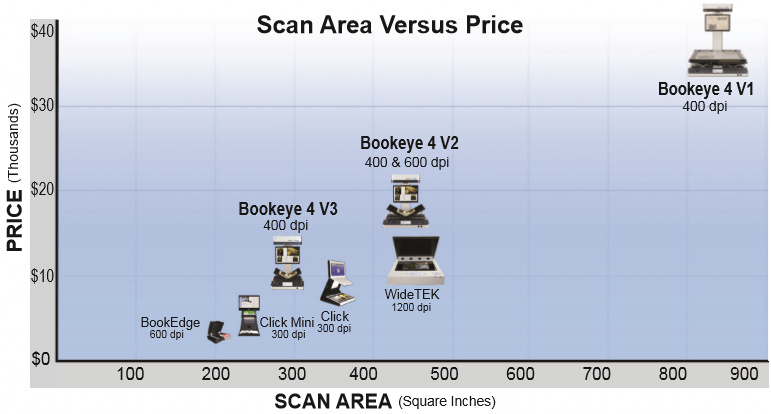
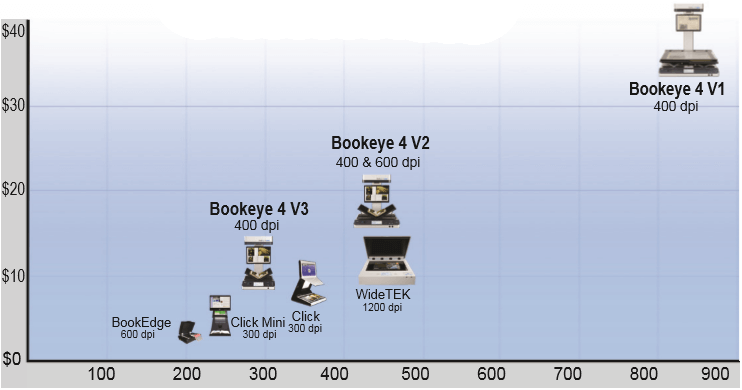
fix and media-queries

Changed region(s): [[0.0, 0.0, 1.0, 1.0], [0.31, 0.0308, 0.6819, 0.0923]]

diff --git a/Image Access Site/pages/KIC_Software.html b/Image Access Site/pages/KIC_Software.html
@@ -121,7 +121,7 @@
                 interfaces, one exclusively for scanning, one exclusively for copying and one exclusively for faxing.
                 And KIC's best-of-breed power user interface is only a touch away.
             </p>
-            <img id="copy-diagram" src="../images/brochure-pictures/TriangularCopy.png" alt="">
+            <img class="copy-diagram" src="../images/brochure-pictures/TriangularCopy.png" alt="">
             <h3 class="brochure-subtitle-left">Copier Replacement</h3>
             <p>
                 While multifunction copiers are partly digital, they are big mechanical machines with big maintenance
@@ -251,7 +251,8 @@
                              alt="Enhance Reports">
                     </div>
                     <div class="infoblock__double__content__double">
-                        <p class="paragraph-padding">Place books face-up on KIC Bookeye 4's large bed & capture two pages at a time - <i>much</i>
+                        <p class="paragraph-padding">Place books face-up on KIC Bookeye 4's large bed & capture two
+                            pages at a time - <i>much</i>
                             faster
                             than flatbed scanners and copiers.</p>
                         <p>Use whole pages or clip selected pictures, graphs, test, etc. using KIC's large touch
@@ -521,7 +522,7 @@
         <div id="KIC_Software_Self_Serve_Book_Printing" data-spy="scroll"
              class="scrollSpy brochure-overflow">
             <div class="content__pod">
-                <h2 class="brochure-title-center">Print Books on Demand</h2>
+                <h2 class="brochure-title-center">Self-Serve Book Printing</h2>
                 <div class="pbd--frame">
                     <img class="img-preview" src="../images/logo/POD-logo.png" alt="logo-pbd">
                     <p class="frame--text">Printing books has never been easier! With KIC's new Print On Demand
@@ -589,9 +590,7 @@
                         to make it easier to navigate from KIC to KIC
                         system, KIC Fleet Manager allows you to select
                         a particular KIC system via either of two
-                        methods: a map or a list. </p>
-                    <p class="kic_software__kic_textblock__fix resize-fleet-paragraph">
-                        With over ten years serving libraries, KIC is the most stable
+                        methods: a map or a list. With over ten years serving libraries, KIC is the most stable
                         product available today.
                     </p>
                     <p class="kit-fleet-paragraph resize-fleet-paragraph">However, DLSG engineers incessantly
@@ -754,7 +753,7 @@
                     <img class="dual-screen-img" src="../images/KIC Software/KIC-Software-Brochure-7-2.png" width=""
                          height=""
                          alt="">
-                    <span>Dual Screen Touch & View</span>
+                    <span class="dual-screen-text">Dual Screen Touch & View</span>
                 </div>
             </div>
             <div class="infoblock__div_arrow-devices">

diff --git a/Image Access Site/css/kic-software.css b/Image Access Site/css/kic-software.css
@@ -246,10 +246,6 @@ img {
     height: 16px;
 }
 
-.infoblock p {
-    text-align: left;
-}
-
 div.infoblock span {
     display: inline-block;
 }
@@ -579,9 +575,10 @@ th .table--img {
     width: 40%;
 }
 
-#copy-diagram {
+.copy-diagram {
     float: left;
-    width: 30%;
+    width: 35%;
+    height: 35%;
 }
 
 #fax-diagram {
@@ -1586,11 +1583,6 @@ h2.pod-text {
     margin: 0 auto;
 }
 
-.infoblock p {
-    font-size: 1.6rem;
-    line-height: 1.8rem;
-}
-
 .cicle {
     border-radius: 100%;
     -moz-border-radius: 100%;
@@ -2369,27 +2361,25 @@ p.infoblock__homo-text.responsible_fix_block_text span {
 
 .wrap-two-large-screens {
     float: left;
-    width: 60%;
+    width: 70%;
     margin-bottom: 40px;
 }
 
 .dual-screen-img {
-    width: 25% !important;
+    float: left;
+    width: 27% !important;
     padding-left: 15px;
+    position: relative;
 }
 
 .wrap-two-large-screens p {
     padding-bottom: 15px;
 }
 
-.wrap-dual-screen-img {
-    position: relative;
-}
-
 .wrap-dual-screen-img span {
     position: absolute;
-    top: 97%;
-    right: 203px;
+    bottom: -350px;
+    right: 73px;
     font-size: 1.6rem;
 }
 
@@ -2742,4 +2732,20 @@ img.click-mini {
     text-align: center;
     line-height: 18px;
     padding-bottom: 10px;
+}
+
+.brochure-title-center {
+    font-size: 3.1rem;
+    line-height: 3.3rem;
+}
+
+.dual-screen-text {
+    position: absolute;
+}
+
+p.media_fix_for1366 {
+    position: absolute;
+    width: 27%;
+    top: 210px;
+    right: 40px;
 }

diff --git a/Image Access Site/pages/TKPF_Scan_Area_vs_Price.html b/Image Access Site/pages/TKPF_Scan_Area_vs_Price.html
@@ -38,7 +38,7 @@
     <div class="infoblock">
         <h2 class="brochure-title-center">Scan Area Versus Price</h2>
         <div class="graph">
-            <img src="../images/Bookedge/kic-product-family/graf2.png" alt="scan">
+            <img src="../images/brochure-pictures/diagram.png" alt="scan">
             <div class="rotate-text width-td">PRICE <span class="htable__font infoblock__fond-size-span-text" >(Thousands)</span></div>
         </div>
         <h2 class="brochure-title-center">Scan area <span class="htable__font">(Square Inches)</span></h2>
